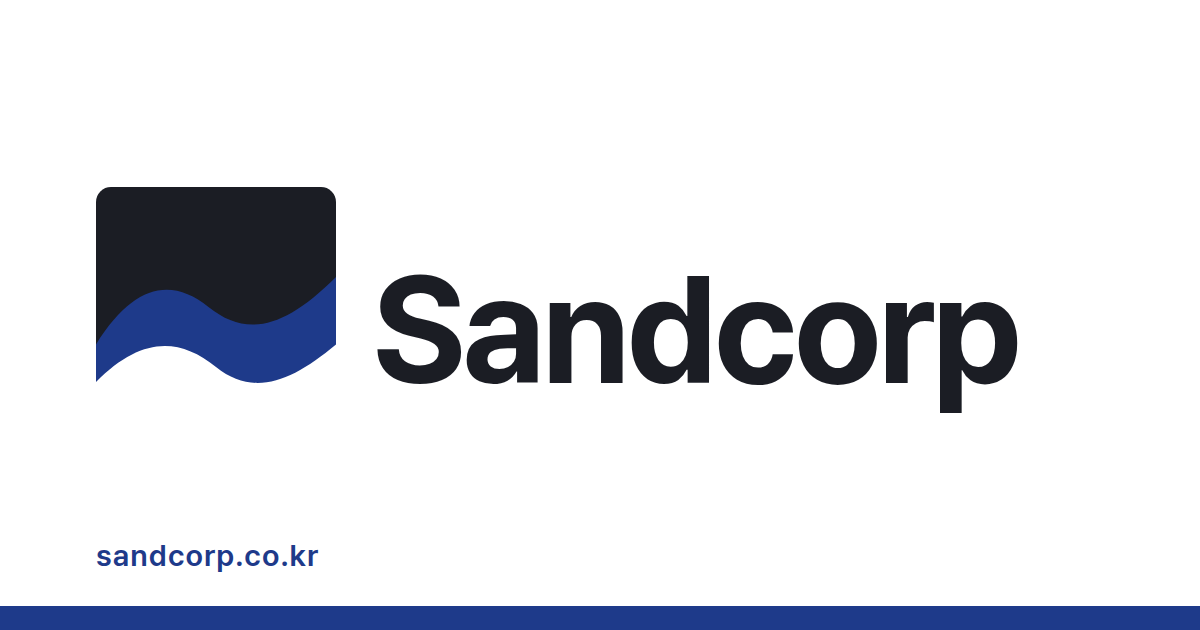
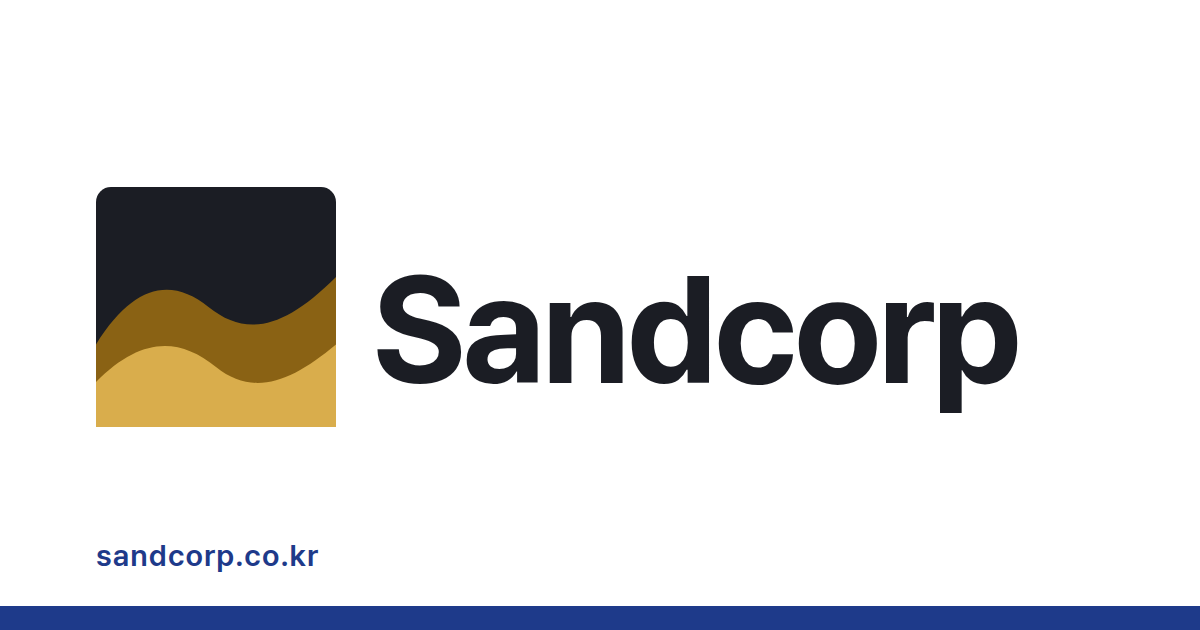
기본 og:image 마크를 sandcorp-design 원본 색(잉크 #1b1d24·금색 #8a6214/#d9ad4c)으로 (Closes #117) (#118)

Changed region(s): [[0.0617, 0.4524, 0.2775, 0.6937]]

diff --git a/CLAUDE.md b/CLAUDE.md
@@ -48,5 +48,5 @@ Single-context: one `GLOSSARY.md` + `docs/adr/` at the repo root. See `docs/agen
 - DB 백업(#19): 운영 compose의 `backup`이 `python manage.py db_backup`을 돈다(04:00 KST 하루 한 번, `mysqldump` gzip → `backups/…/portfolio-<UTC>.sql.gz`, 30일 보관, 실패 시 Discord). 즉시 백업 `db_backup --force`, 복원 `db_restore --dbname <빈 DB>`(덤프에 DROP TABLE이 없어 빈 DB에만 들어간다, Postgres 시절 `.dump`는 거절). 절차는 `docs/ops/backup-restore.md`.
 - 운영 compose 로컬 확인: `.env.example`을 `.env`로 복사해 값을 채우고(`DJANGO_ALLOWED_HOSTS`에 `localhost`) `COMPOSE_PROJECT_NAME=portfolio-local COMPOSE_FILE=docker-compose.prod.yml:docker-compose.local.yml bash deploy/deploy.sh` → http://127.0.0.1:18091 (DB는 `docker-compose.local.yml`의 로컬 MySQL이 `.env`의 `DB_*`를 덮는다; `make prod-local`은 migrate 없이 띄우기만). 끝나면 `make prod-local-down`.
 - 가용 상태(#88): `SiteProfile.availability`(60자, 비면 숨김)·`availability_updated_on`(DateField null; 가용 상태를 저장할 때 비어 있으면 오늘로 채움)를 admin·MCP `update_profile`/`get_profile`로 바꾼다. 모든 공개 페이지(홈·`/work/<slug>`·`/blog`·`/blog/<slug>`)의 셸 데이터 `availability: {text, updated: "YYYY.MM"} | null`이 머리띠에서 방문 지표 바로 뒤에 「● 문구 · 갱신 YYYY.MM」으로 보인다(768px 미만은 갱신 월을 생략하고, 가용 상태가 있으면 방문 지표를 숨긴다 — 390px에서 둘이 한 줄에 안 들어가 워드마크와 겹침을 측정으로 확인, #96). 홈 히어로 소개 문장(`HERO_LEAD`)과 GitHub 주소는 코드 상수.
-- 링크 미리보기·JSON-LD(#110): 공개 네 종의 head 메타는 서버(`core/shell.py`·`shell.html`)에서만 낸다(React는 head를 안 건드림). `og:image`는 포트폴리오 항목·글의 커버, 없으면 기본 `/static/core/og-default.png`(1200×630, 원본 `scripts/og-image/og-default.svg`, 다시 만들기 `scripts/og-image/build.sh`; 마크는 sandcorp-design v0.4.0 모양에 흰색·검정·네이비). `og:image:alt`·`twitter:*`(이미지 있으면 `summary_large_image`)·글의 `article:published_time/modified_time/tag`. JSON-LD는 `core/seo.py`(홈 Organization·WebSite·Person `@graph`, work는 CreativeWork, 글은 BlogPosting; contactPoint 없음)와 `shell.py`, 값은 SiteProfile·카드·글에서만, 출력은 `<`·`>`·`&`를 `\u00xx`로 이스케이프. 제안서·인쇄·미리보기에는 이미지·JSON-LD 없음. 시험 `tests/test_seo_meta.py`.
+- 링크 미리보기·JSON-LD(#110): 공개 네 종의 head 메타는 서버(`core/shell.py`·`shell.html`)에서만 낸다(React는 head를 안 건드림). `og:image`는 포트폴리오 항목·글의 커버, 없으면 기본 `/static/core/og-default.png`(1200×630, 원본 `scripts/og-image/og-default.svg`, 다시 만들기 `scripts/og-image/build.sh`; 마크는 sandcorp-design v0.4.0 `assets/mark.svg` 원본 색 — 잉크 #1b1d24·금색 #8a6214/#d9ad4c, 하단 띠·도메인은 네이비 #1e3a8a). `og:image:alt`·`twitter:*`(이미지 있으면 `summary_large_image`)·글의 `article:published_time/modified_time/tag`. JSON-LD는 `core/seo.py`(홈 Organization·WebSite·Person `@graph`, work는 CreativeWork, 글은 BlogPosting; contactPoint 없음)와 `shell.py`, 값은 SiteProfile·카드·글에서만, 출력은 `<`·`>`·`&`를 `\u00xx`로 이스케이프. 제안서·인쇄·미리보기에는 이미지·JSON-LD 없음. 시험 `tests/test_seo_meta.py`.
 - 접근 코드(#67): 발행(첫 발행만)·재발급 때 `access_code`를 직접 정할 수 있다(비우면 자동 8자). 규칙은 `services/publishing.py::validate_access_code` — 4~32자(앞뒤 공백 제거·NFC 정규화 뒤), 글자(한글 가능)·숫자·하이픈·밑줄·공백만, 같은 문자 반복·연속(1234/abcd)·흔한 값(`COMMON_ACCESS_CODES`)·제안서 slug·고객 코드는 `InvalidAccessCode`(Rejected 계열, 메시지에 코드 미포함). `code_matches`는 입력 그대로(공백만 제거)를 해시 비교하고, 자동 코드는 대소문자·공백·하이픈을 느슨하게 받는다. 이미 코드가 있는 제안서를 발행하며 코드를 주면 Conflict. MCP `publish`·`reissue_access_code`의 선택 입력, admin 액션 「발행 (접근 코드 직접 정하기)」·「접근 코드 재발급 (직접 정하기…)」(중간 입력 화면 `proposal_choose_codes.html`). 평문은 어디에도 남기지 않는다. 용어집 파일은 이 저장소에 없다.
